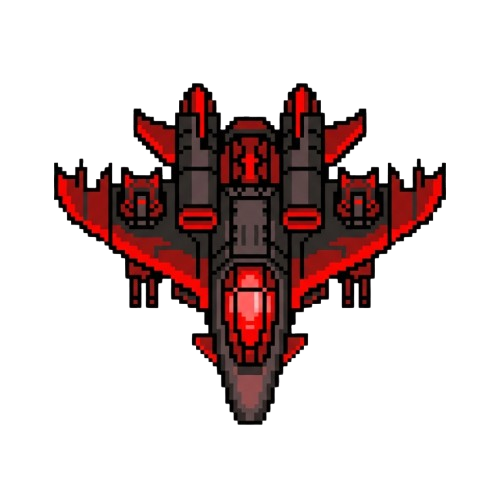
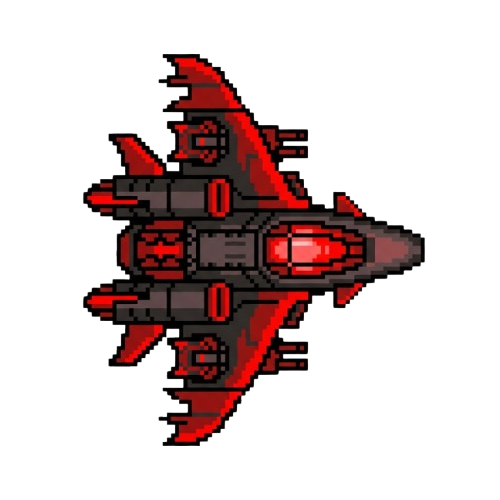
changed to move sideways

Changed region(s): [[0.09, 0.09, 0.9, 0.9]]

diff --git a/SpaceDefender/GameScene.cpp b/SpaceDefender/GameScene.cpp
@@ -12,7 +12,7 @@
 
 
 GameScene::GameScene(QObject *parent)
-    : QGraphicsScene(parent), leftPressed(false), rightPressed(false),
+    : QGraphicsScene(parent), leftPressed(false), rightPressed(false),upPressed(false), downPressed(false),
     spacePressed(false), isPaused(false), gameStarted(false), score(0),
     highScore(0), health(1000), gamePhase(0) {
 
@@ -140,6 +140,12 @@ GameScene::GameScene(QObject *parent)
     connect(spawnTimer, SIGNAL(timeout()), this, SLOT(spawnEnemy()));
     spawnTimer->start(2000);
 
+    //Automatic shooting
+    // Faster bullets in late game
+    // shootTimer = new QTimer(this);
+    // int bulletSpeed = (gamePhase >= 3) ? 40 : 20;
+    // player->shoot(bulletSpeed);
+
     // Track intro fade timing
     startTime = QDateTime::currentMSecsSinceEpoch();
 
@@ -177,11 +183,19 @@ void GameScene::keyPressEvent(QKeyEvent *event)
     else if (event->key() == Qt::Key_Right) {
         rightPressed = true;
     }
-    else if (event->key() == Qt::Key_Space) {
-        // Faster bullets in late game
-        int bulletSpeed = (gamePhase >= 3) ? 40 : 20;
-        player->shoot(bulletSpeed);
+    else if (event->key() == Qt::Key_Up)
+    {
+        upPressed = true;
     }
+    else if (event->key() == Qt::Key_Down)
+    {
+        downPressed = true;
+    }
+    // else if (event->key() == Qt::Key_Space) {
+    //     // Faster bullets in late game
+    //     int bulletSpeed = (gamePhase >= 3) ? 40 : 20;
+    //     player->shoot(bulletSpeed);
+    // }
     else if (event->key() == Qt::Key_Escape) {
         // Enter pause mode
         isPaused = true;
@@ -200,6 +214,10 @@ void GameScene::keyReleaseEvent(QKeyEvent *event) {
         leftPressed = false;
     else if (event->key() == Qt::Key_Right)
         rightPressed = false;
+    else if (event->key() == Qt::Key_Up)
+        upPressed = false;
+    else if (event-> key() == Qt::Key_Down)
+        downPressed = false;
 }
 
 void GameScene::spawnEnemy() {
@@ -233,6 +251,8 @@ void GameScene::updateGame() {
     // Player continuous movement
     if (leftPressed)  player->moveLeft();
     if (rightPressed) player->moveRight();
+    if (upPressed) player->moveUp();
+    if (downPressed) player->moveDown();
 
     // Update all moving objects
     QList<QGraphicsItem *> sceneItems = items();

diff --git a/SpaceDefender/Enemy.cpp b/SpaceDefender/Enemy.cpp
@@ -27,8 +27,8 @@ Enemy::Enemy(Type type, int speedMultiplier, QGraphicsItem *parent)
     }
 
     // Random start X within LCD screen width (approx 480)
-    startX = rand() % 450;       // enemy horizontal spawn position
-    setPos(startX, -60);         // appear slightly off-screen at the top
+    startY = (rand() % 257) + 10;       // enemy vertical spawn position
+    setPos(-60, startY);         // appear slightly off-screen at the top
 }
 
 Enemy::Type Enemy::getType() const { return enemyType; }
@@ -39,17 +39,17 @@ void Enemy::move() {
 
     if (enemyType == Asteroid || enemyType == StraightShip) {
         // Basic downward movement
-        setPos(x(), y() + speed);
+        setPos(x() + speed, y());
 
     }
     else if (enemyType == SineShip) {
         // Horizontal sine-wave movement formula
-        double newX = startX + 50 * qSin(0.15 * timeAlive);
-        setPos(newX, y() + speed);
+        double newY = startY + 50 * qSin(0.15 * timeAlive);
+        setPos(x() + speed, newY);
     }
 
     // Delete enemy once it leaves bottom of the screen
-    if (y() > 300) { // Off screen
+    if (x() > 520) { // Off screen
         if (scene())
             scene()->removeItem(this);
         delete this;

diff --git a/SpaceDefender/Bullet.cpp b/SpaceDefender/Bullet.cpp
@@ -17,20 +17,20 @@ void Bullet::move()
 {
     if (bulletType == PlayerBullet) {
         // player bullets travel upward
-        setPos(x(), y() - speed);
+        setPos(x() - speed, y());
 
         // remove when off-screen
-        if (y() + pixmap().height() < 0) {
+        if (y() + pixmap().width() < 0) {
             if (scene()) scene()->removeItem(this);
             delete this;
         }
     }
     else {
         // enemy bullets travel downward
-        setPos(x(), y() + speed);
+        setPos(x() + speed, y());
 
         // remove when off-screen
-        if (y() > 600) {
+        if (x() > 520) {
             if (scene()) scene()->removeItem(this);
             delete this;
         }

diff --git a/SpaceDefender/Player.h b/SpaceDefender/Player.h
@@ -13,6 +13,8 @@ public:
     void shoot(int bulletSpeed = 10);         // creates a bullet moving upward
     void moveLeft();                          // moves player left within bounds
     void moveRight();                         // moves player right within bounds
+    void moveUp();                          // moves player up within bounds
+    void moveDown();                         // moves player down within bounds
 };
 
 #endif // PLAYER_H

diff --git a/SpaceDefender/Player.cpp b/SpaceDefender/Player.cpp
@@ -30,3 +30,17 @@ void Player::moveRight() {
     if (x() + pixmap().width() < 480)
         setPos(x() + 20, y());
 }
+
+void Player::moveUp()
+{
+    // Move up with screen-edge boundary (272px wide scene)
+    if (y() > 0)
+        setPos(x(), y() - 20);
+}
+
+void Player::moveDown()
+{
+    // Move down with screen-edge boundary (480px wide scene)
+    if (y() + pixmap().height() < 272)
+        setPos(x(), y() + 20);
+}

diff --git a/SpaceDefender/Enemy.h b/SpaceDefender/Enemy.h
@@ -20,7 +20,7 @@ public slots:
 private:
     Type enemyType;            //Determines movement logic
     int speed;                 //Vertical movement speed
-    int startX;                //Starting horizontal position
+    int startY;                //Starting horizontal position
     int timeAlive;             //Used for sine wave movement
 };
 

diff --git a/SpaceDefender/GameScene.h b/SpaceDefender/GameScene.h
@@ -37,6 +37,8 @@ private:
     // Input state
     bool leftPressed;
     bool rightPressed;
+    bool upPressed;
+    bool downPressed;
     bool spacePressed;
     bool isPaused;
     bool gameStarted;
